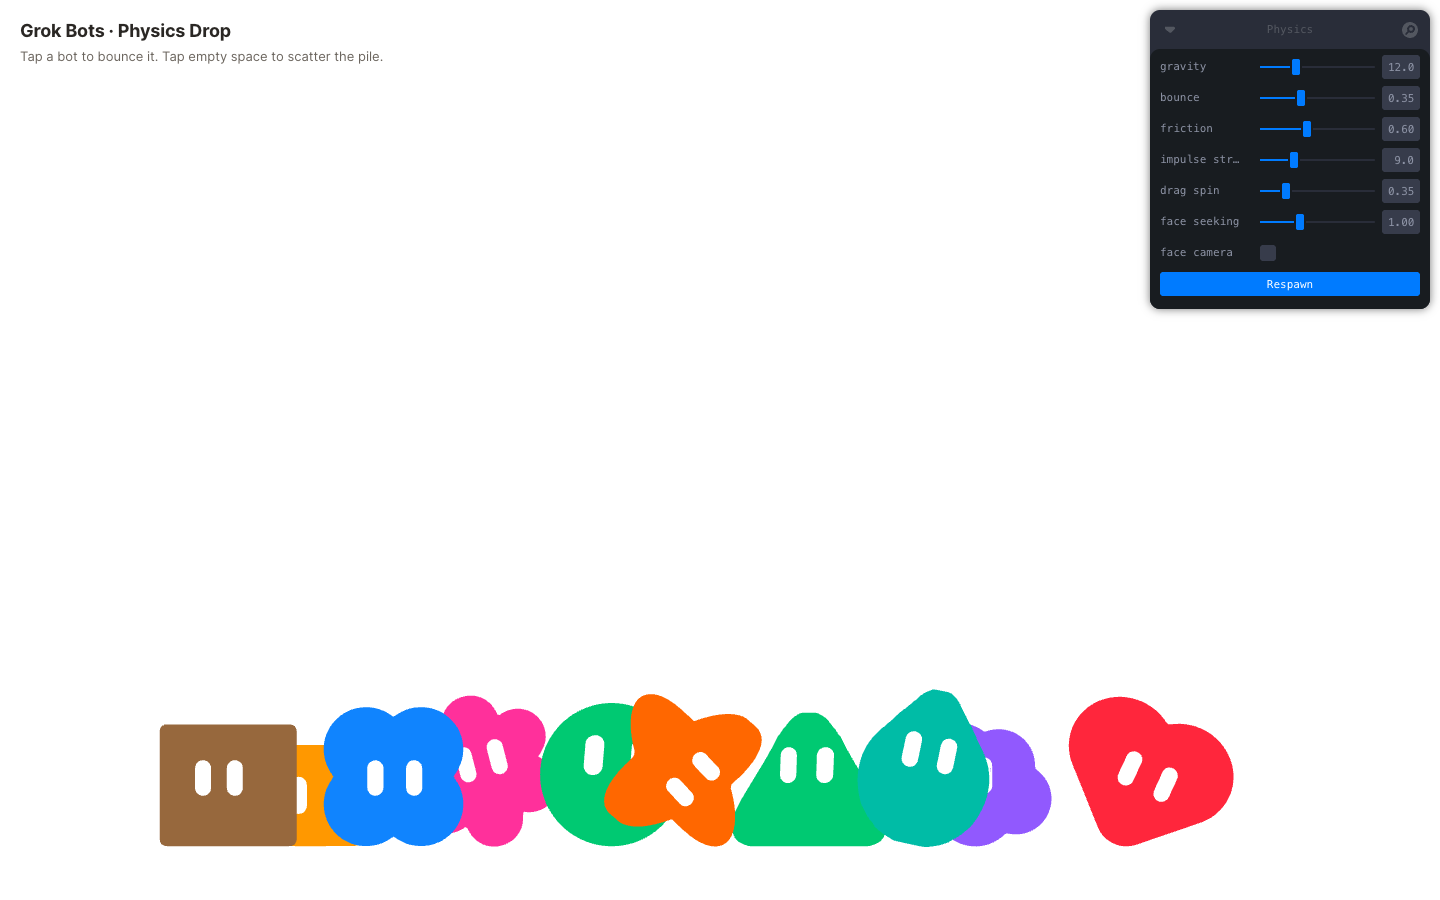
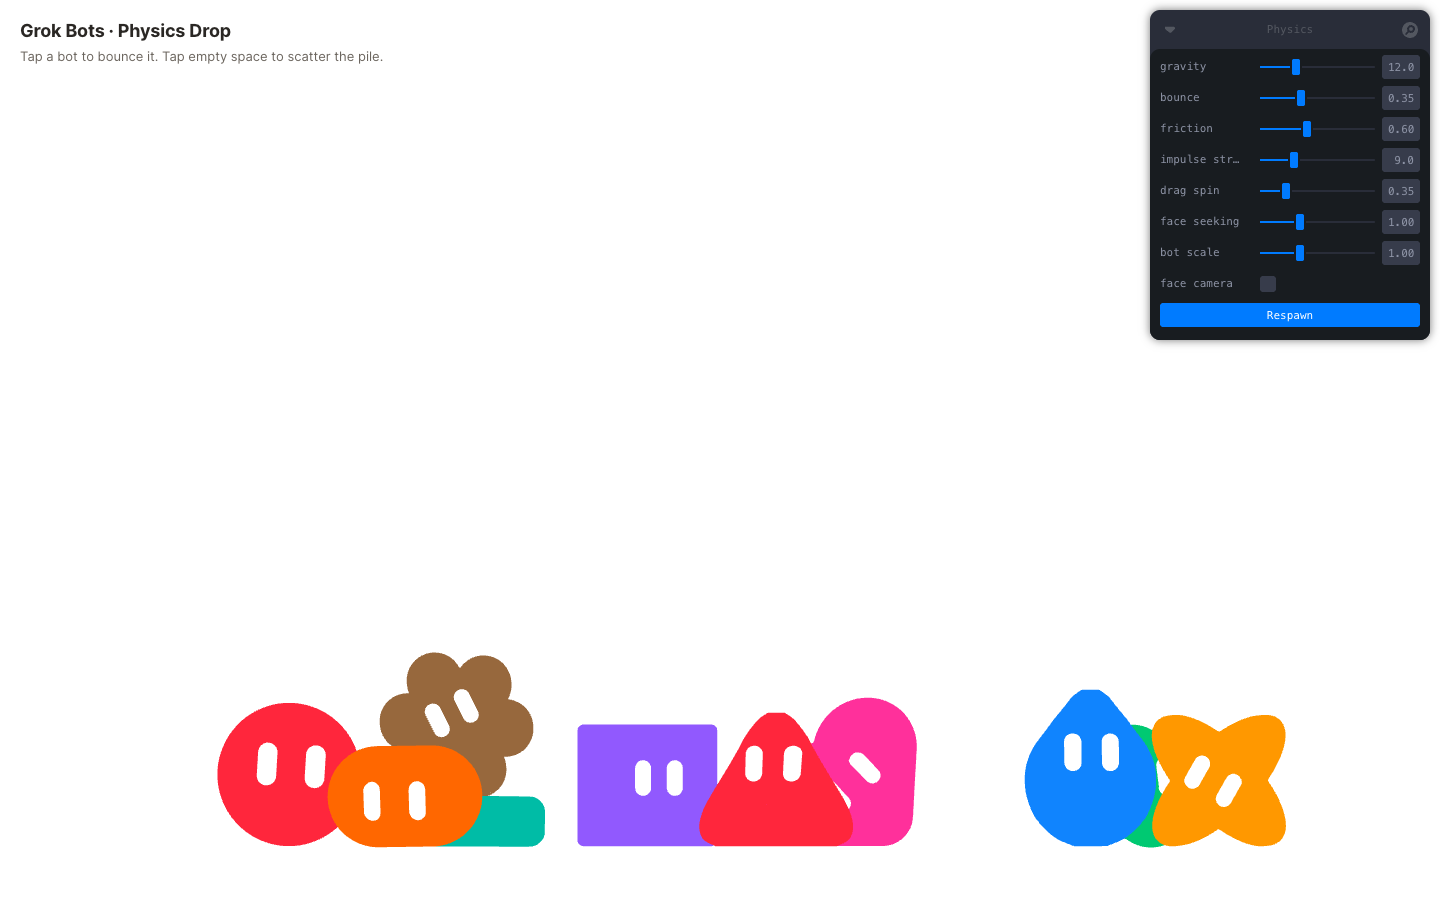
Docs: refresh screenshots, document bot scale slider, ?lineup and the smooth geometry pipeline

Changed region(s): [[0.0938, 0.7156, 0.9062, 0.9644], [0.7812, 0.2489, 1.0, 0.4044]]

diff --git a/README.md b/README.md
@@ -37,11 +37,17 @@ Opens on <http://127.0.0.1:4731/> (fixed port, see `vite.config.ts`).
   - `drag spin` — degrees of rotation per pixel of drag.
   - `face seeking` — a soft weeble torque that swings tumbling bots back to face
     the camera upright, so eyes stay readable once they settle. 0 disables it.
+  - `bot scale` — 0.5×–2× size multiplier for every bot, applied live to the
+    meshes and their colliders (the play space deepens to fit, and tap
+    impulses scale with mass so kicks feel the same). Respawn re-drops at the
+    current scale with spacing adjusted so big bots land inside the walls.
   - `face camera` — off by default (full 3D tumbling). On: bots keep their
     face toward the viewer (no depth travel, spin only about the view axis).
   - `Respawn` — re-drops all ten bots with reshuffled colors.
 
 Works with touch on mobile; the panel starts collapsed on narrow screens.
+Add `?lineup` to the URL to drop the bots in one evenly spaced, upright row
+(handy for screenshots).
 
 ## Troubleshooting
 
@@ -78,14 +84,24 @@ Copied read-only from the Sand-Toolkit repo:
 
 ## How it works
 
-- `src/geometry.ts` turns each body definition into a signed distance field,
-  extracts the surface with three's `MarchingCubes`, and drapes two white pill
-  eyes onto it (each eye vertex is pushed along the view axis until it meets the
-  surface, then lifted a hair). Bodies use an unlit `MeshBasicMaterial` with the
-  exact token hex; eyes are paper-white, like the tool's carved eyes.
+- `src/geometry.ts` builds each body as smooth analytic geometry wherever the
+  definition allows it, so silhouettes stay clean at any zoom: the teardrop and
+  wedge are `LatheGeometry` surfaces of revolution from their (lightly
+  smoothed, spline-resampled) profile curves; the blob, square and tablet are a
+  sphere, a `RoundedBoxGeometry` and a capsule; the cloud and heart are the
+  tool's rounded loft stitched directly from scaled cross-sections. Only the
+  three bevelled slabs (sparkle, clover, star) still go through three's
+  `MarchingCubes`, at 128³ with every vertex then snapped onto the exact SDF
+  surface. Each body also has a signed distance field, used to drape the two
+  white pill eyes (each eye vertex is pushed along the view axis until it meets
+  the surface, then lifted a hair along the normal). All ten build once in
+  about a second and are reused across respawns and rescales. Bodies use an
+  unlit `MeshBasicMaterial` with the exact token hex; eyes are paper-white,
+  like the tool's carved eyes.
 - `src/Bot.tsx` wraps each body in a Rapier `RigidBody` with a convex-hull
-  collider built from a thinned copy of the mesh vertices (ball/box fallback if
-  the hull fails), and handles tap, drag-to-rotate and flick.
+  collider built from a thinned copy of the mesh vertices, scaled with the
+  `bot scale` setting (ball/box fallback if the hull fails), and handles tap,
+  drag-to-rotate and flick.
 - `src/Scene.tsx` sets up an orthographic camera looking down -Z, an invisible
   floor and walls at the viewport edges, a shallow front/back slab, the
   face-seeking torque, click handling and the Leva panel.
